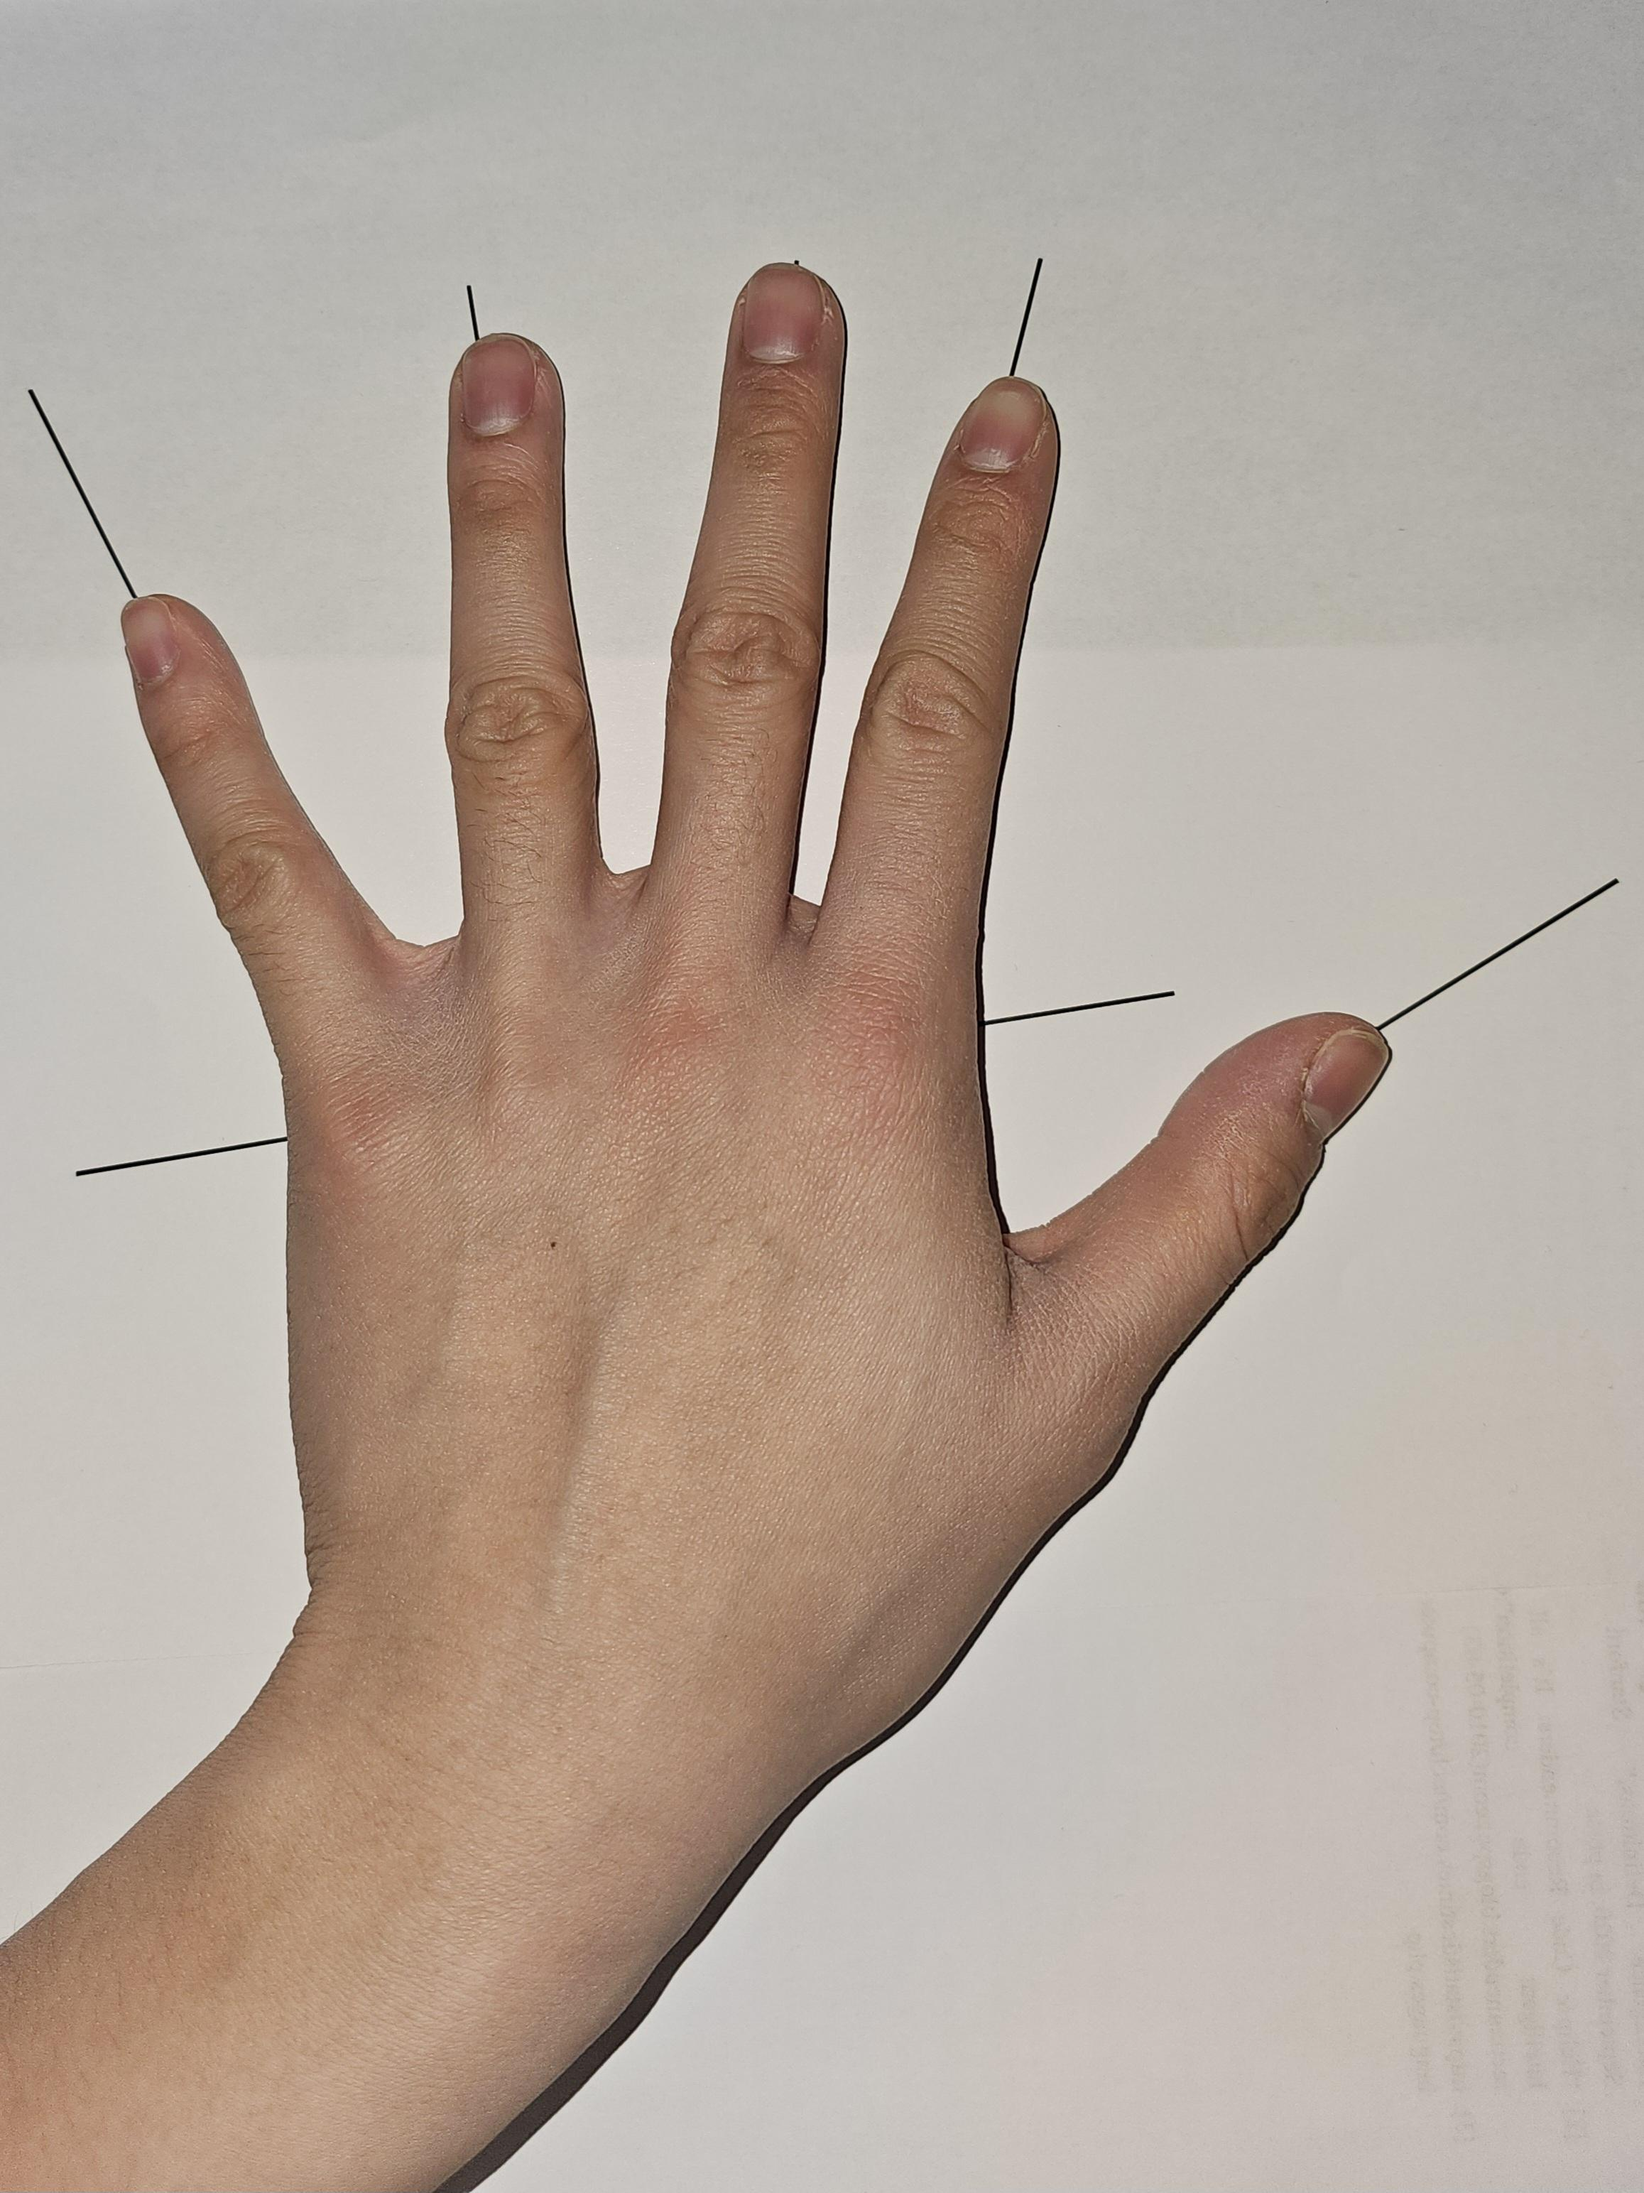
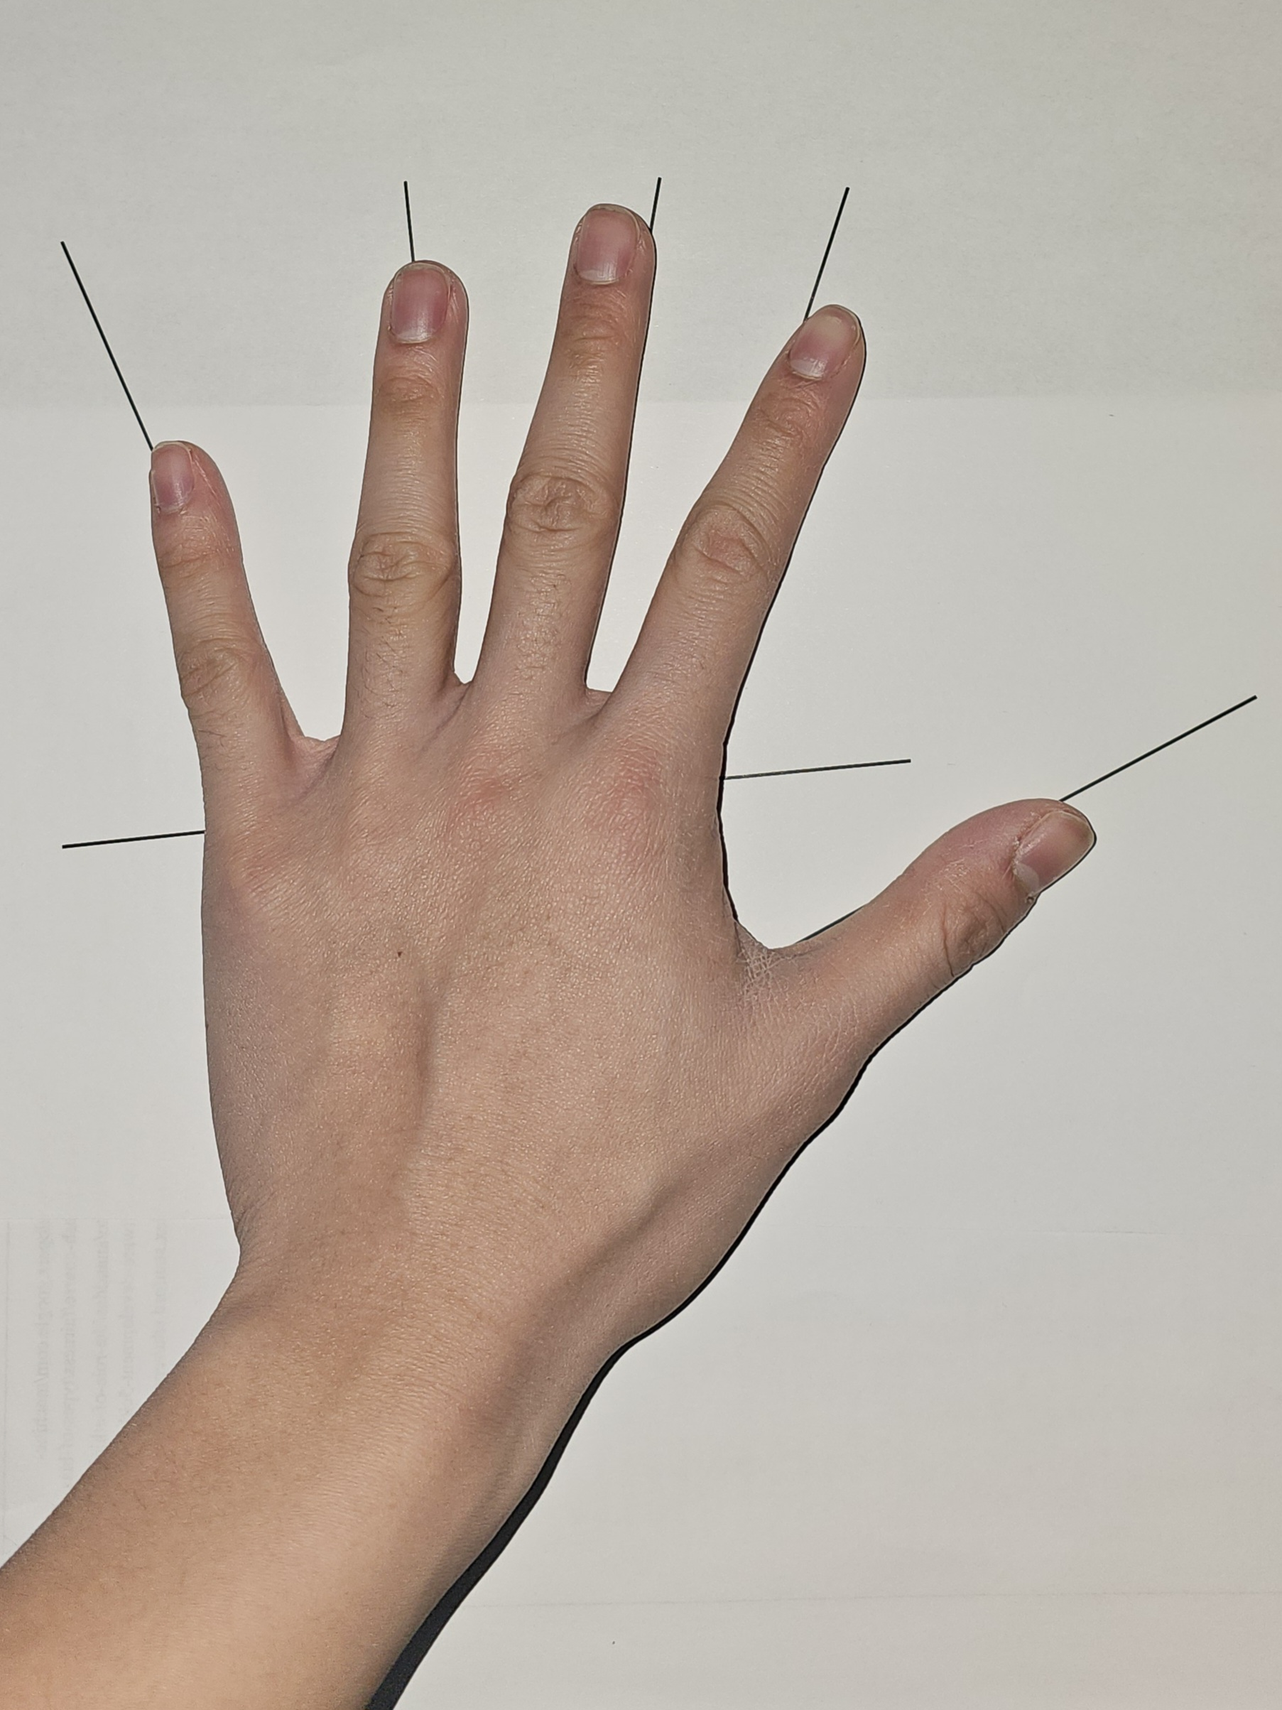
New hand images

diff --git a/main.py b/main.py
@@ -36,6 +36,15 @@ def set_points(image, num_points, max_size):
 
 # Function to draw lines and calculated axes on the image
 def draw_lines_and_axes(image, points, finger_line_indices, knuckle_indices, extension_length=100):
+    knuckle_start, knuckle_end = np.array(points[knuckle_indices[0]]), np.array(points[knuckle_indices[1]])
+    knuckle_direction = knuckle_end - knuckle_start
+    knuckle_unit_vector = knuckle_direction / np.linalg.norm(knuckle_direction)
+    knuckle_line_start = (knuckle_start - knuckle_unit_vector * extension_length * 2).astype(int)
+    knuckle_line_end = (knuckle_end + knuckle_unit_vector * extension_length * 2).astype(int)
+    cv2.line(image, tuple(knuckle_line_start), tuple(knuckle_line_end), (0, 0, 255), 2)
+    label_position = ((knuckle_line_start + knuckle_line_end) / 2).astype(int)
+    cv2.putText(image, "F1", tuple(label_position), cv2.FONT_HERSHEY_SIMPLEX, 0.8, (255, 255, 255), 2, cv2.LINE_AA)
+
     for idx, (i, j) in enumerate(finger_line_indices):
         p1, p2 = np.array(points[i]), np.array(points[j])
         direction = p2 - p1
@@ -44,13 +53,6 @@ def draw_lines_and_axes(image, points, finger_line_indices, knuckle_indices, ext
         start_point = (p1 - unit_vector * extension_length).astype(int)
         end_point = (p2 + unit_vector * extension_length).astype(int)
         cv2.line(image, tuple(start_point), tuple(end_point), (255, 0, 0), 2)
-
-    knuckle_start, knuckle_end = np.array(points[knuckle_indices[0]]), np.array(points[knuckle_indices[1]])
-    knuckle_direction = knuckle_end - knuckle_start
-    knuckle_unit_vector = knuckle_direction / np.linalg.norm(knuckle_direction)
-    knuckle_line_start = (knuckle_start - knuckle_unit_vector * extension_length).astype(int)
-    knuckle_line_end = (knuckle_end + knuckle_unit_vector * extension_length).astype(int)
-    cv2.line(image, tuple(knuckle_line_start), tuple(knuckle_line_end), (0, 0, 255), 2)
 
     for idx, (i, j) in enumerate(finger_line_indices):
         p1, p2 = np.array(points[i]), np.array(points[j])
@@ -63,9 +65,9 @@ def draw_lines_and_axes(image, points, finger_line_indices, knuckle_indices, ext
             axis_end_point = (p + perpendicular_vector * extension_length).astype(int)
             cv2.line(image, tuple(axis_start_point), tuple(axis_end_point), (0, 255, 0), 2)
 
-            if k == 0:  
+            if k == 0:
                 label_position = ((axis_start_point + axis_end_point) / 2).astype(int)
-                cv2.putText(image, f"F{idx + 1}", tuple(label_position), cv2.FONT_HERSHEY_SIMPLEX, 0.8, (255, 255, 255), 2, cv2.LINE_AA)
+                cv2.putText(image, f"F{idx + 2}", tuple(label_position), cv2.FONT_HERSHEY_SIMPLEX, 0.8, (255, 255, 255), 2, cv2.LINE_AA)
     
     return image
 
@@ -86,7 +88,7 @@ def calculate_distances(points, line_indices):
     return distances
 
 # Function to calculate intensity profiles
-def calculate_intensity_profiles(image, points, finger_line_indices, extension_length=200):
+def calculate_intensity_profiles(image, points, finger_line_indices, knuckle_indices, extension_length=200):
     profiles = []
 
     for i, j in finger_line_indices:
@@ -107,6 +109,22 @@ def calculate_intensity_profiles(image, points, finger_line_indices, extension_l
 
         profiles.append(np.array(profile))
 
+    # Calculate intensity profile for knuckle line
+    if len(points) > max(knuckle_indices):
+        knuckle_start, knuckle_end = np.array(points[knuckle_indices[0]]), np.array(points[knuckle_indices[1]])
+        knuckle_direction = knuckle_end - knuckle_start
+        knuckle_unit_vector = knuckle_direction / np.linalg.norm(knuckle_direction)
+        knuckle_line_start = (knuckle_start - knuckle_unit_vector * extension_length * 2).astype(int)
+        knuckle_line_end = (knuckle_end + knuckle_unit_vector * extension_length * 2).astype(int)
+
+        knuckle_profile = []
+        for t in np.linspace(0, 1, int(np.linalg.norm(knuckle_line_end - knuckle_line_start))):
+            pt = (1 - t) * knuckle_line_start + t * knuckle_line_end
+            x, y = int(pt[0]), int(pt[1])
+            if 0 <= x < image.shape[1] and 0 <= y < image.shape[0]:
+                knuckle_profile.append(image[y, x])
+        profiles.insert(0, np.array(knuckle_profile))  
+
     return profiles
 
 # Load hand images
@@ -121,11 +139,11 @@ for image_index in range(len(hand_images)):
     grayscale_image = cv2.cvtColor(image, cv2.COLOR_BGR2GRAY)
     
     points = set_points(grayscale_image.copy(), 12, 800) 
-    finger_line_indices = [(0, 1), (2, 3), (4, 5), (6, 7), (8, 9)]
-    knuckle_indices = (10, 11) 
+    finger_line_indices = [(2, 3), (4, 5), (6, 7), (8, 9), (10, 11)] 
+    knuckle_indices = (0, 1)
 
-    image_with_lines_and_axes = draw_lines_and_axes(grayscale_image.copy(), points, finger_line_indices, knuckle_indices, extension_length=200)
-    profiles = calculate_intensity_profiles(grayscale_image, points, finger_line_indices)
+    image_with_lines_and_axes = draw_lines_and_axes(grayscale_image.copy(), points, finger_line_indices, knuckle_indices, extension_length=175)
+    profiles = calculate_intensity_profiles(grayscale_image, points, finger_line_indices, knuckle_indices)
     distances = calculate_distances(points, finger_line_indices)
     feature_vectors.append(np.array(distances).flatten())
     
@@ -136,13 +154,17 @@ for image_index in range(len(hand_images)):
     cv2.destroyAllWindows()
     
     plt.figure(figsize=(15, 10))
-    for idx, profile in enumerate(profiles[:5]):  
+    for idx, profile in enumerate(profiles):
         plt.subplot(3, 2, idx + 1)
         plt.plot(profile)
-        plt.title(f"Intensity Profile along F{idx + 1}")
+        if idx == 0:
+            plt.title("Intensity Profile along Knuckle Line (F1)")
+        else:
+            plt.title(f"Intensity Profile along F{idx + 1}")
     
     plt.tight_layout()
     plt.show()
+    
 
 # Calculate pairwise Euclidean distances
 distance_matrix = np.zeros((5, 5))

diff --git a/README.md b/README.md
@@ -7,7 +7,7 @@
 # Then the program prompts the user to locate the vector points of joints of the hand
 # The order of which the points aree placed is IMPORTANT
 # The points are to be placed in pairs, two on each finger starting from the top joint, and a second point on the lower joint
-# The knuckle line requires two points where it is CRUCIAL for these points to be placed last, as this is how the program detects the fingers vs. the knuckle vector
+# The knuckle line requires two points where it is CRUCIAL for these points to be placed FIRST, as this is how the program detects the fingers vs. the knuckle vector
 # There should be a total of 12 points placed in the end
 
 # The program then takes these points, draws a line between each pair of points
